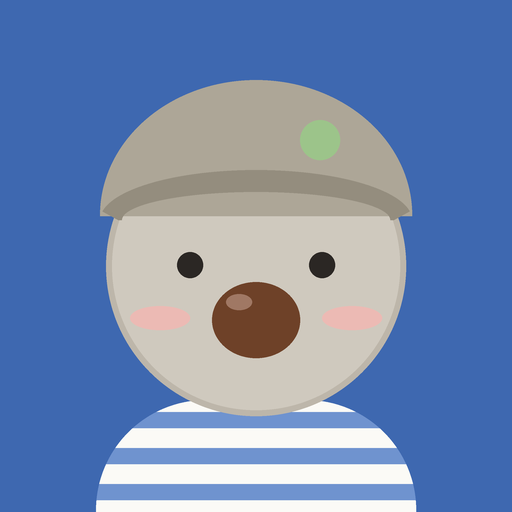
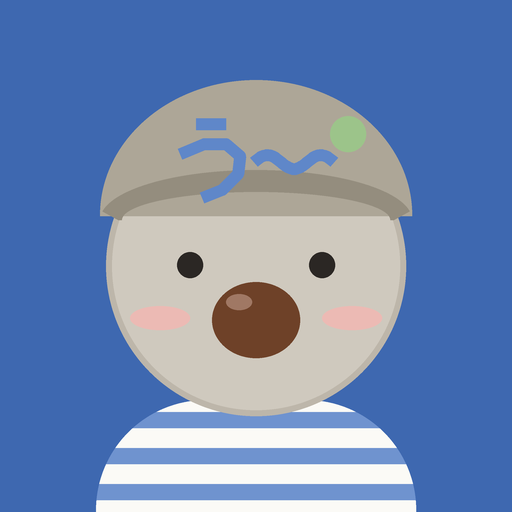
帽子の刺しゅうを「う〜」に、困り顔の眉をハの字に修正

Changed region(s): [[0.3438, 0.2188, 0.7188, 0.4062]]

diff --git a/sw.js b/sw.js
@@ -1,6 +1,4 @@
-// アプリの画面をオフラインでも開けるようにし、在庫の通知を表示する。
-// 画面のファイルを変えたら VERSION を上げると、スマホ側も新しい版に入れ替わる。
-const VERSION = "v5";
+// 繧｢繝励Μ縺ｮ逕ｻ髱｢繧偵が繝輔Λ繧､繝ｳ縺ｧ繧る幕縺代ｋ繧医≧縺ｫ縺励∝惠蠎ｫ縺ｮ騾夂衍繧定｡ｨ遉ｺ縺吶ｋ縲・// 逕ｻ髱｢縺ｮ繝輔ぃ繧､繝ｫ繧貞､峨∴縺溘ｉ VERSION 繧剃ｸ翫￡繧九→縲√せ繝槭・蛛ｴ繧よ眠縺励＞迚医↓蜈･繧梧崛繧上ｋ縲・const VERSION = "v6";
 const CACHE = `stock-${VERSION}`;
 const SHELL = [
   "./",
@@ -23,8 +21,7 @@ self.addEventListener("activate", (e) => {
   );
 });
 
-// 自分のサイトのファイルは「まずネット、だめならキャッシュ」。在庫データ(Supabase)は触らない。
-self.addEventListener("fetch", (e) => {
+// 閾ｪ蛻・・繧ｵ繧､繝医・繝輔ぃ繧､繝ｫ縺ｯ縲後∪縺壹ロ繝・ヨ縲√□繧√↑繧峨く繝｣繝・す繝･縲阪ょ惠蠎ｫ繝・・繧ｿ(Supabase)縺ｯ隗ｦ繧峨↑縺・・self.addEventListener("fetch", (e) => {
   const url = new URL(e.request.url);
   if (e.request.method !== "GET" || url.origin !== self.location.origin) return;
   e.respondWith(
@@ -42,8 +39,8 @@ self.addEventListener("push", (e) => {
   let data = {};
   try { data = e.data ? e.data.json() : {}; } catch { data = { body: e.data && e.data.text() }; }
   e.waitUntil(
-    self.registration.showNotification(data.title || "DEBUとCHIKAのストック帳", {
-      body: data.body || "買うものが増えました",
+    self.registration.showNotification(data.title || "DEBU縺ｨCHIKA縺ｮ繧ｹ繝医ャ繧ｯ蟶ｳ", {
+      body: data.body || "雋ｷ縺・ｂ縺ｮ縺悟｢励∴縺ｾ縺励◆",
       icon: "icons/icon-192.png",
       badge: "icons/icon-192.png",
       tag: data.tag,

diff --git a/index.html b/index.html
@@ -190,7 +190,12 @@ input,select{font:inherit;font-size:16px;color:var(--ink);background:var(--bg);b
       <circle cx="60" cy="50" r="36" fill="none" stroke="#BDB6AA" stroke-width="3" stroke-dasharray="1 4" stroke-linecap="round"/>
       <path d="M24 44Q26 10 60 10Q94 10 96 44Q60 32 24 44Z" fill="url(#p-knit)"/>
       <path d="M24 44Q60 32 96 44" stroke="#948D7E" stroke-width="5" fill="none" stroke-linecap="round"/>
-      <path d="M38 24q6-6 12 0t12 0" stroke="#5F87C9" stroke-width="2.4" fill="none" stroke-linecap="round"/>
+      <!-- 帽子の刺しゅう「う〜」 -->
+      <g stroke="#5F87C9" stroke-width="2.4" fill="none" stroke-linecap="round" stroke-linejoin="round">
+        <path d="M42 17.5h7"/>
+        <path d="M38 24.5q7-3.5 11.5-1.5q4 2.5 0.5 8q-2.5 3.5-7 5"/>
+        <path d="M56 26q3.5-4 7 0t7 0t7 0"/>
+      </g>
       <circle cx="80" cy="22" r="4" fill="#9CC48A"/>
       <ellipse cx="40" cy="64" rx="6" ry="3.5" fill="#E9A0A0" opacity=".45"/>
       <ellipse cx="80" cy="64" rx="6" ry="3.5" fill="#E9A0A0" opacity=".45"/>
@@ -208,7 +213,9 @@ input,select{font:inherit;font-size:16px;color:var(--ink);background:var(--bg);b
     <symbol id="m-worried" viewBox="0 0 120 140">
       <use href="#m-base"/>
       <circle cx="45" cy="54" r="2.8" fill="#2B2724"/><circle cx="75" cy="54" r="2.8" fill="#2B2724"/>
-      <path d="M39 47l10 2.5M81 47l-10 2.5" stroke="#2B2724" stroke-width="2" stroke-linecap="round"/>
+      <!-- 困り眉（内側が上がるハの字）と、波線の口 -->
+      <path d="M38 49.5q5-1 10-4.5M82 49.5q-5-1-10-4.5" stroke="#2B2724" stroke-width="2" fill="none" stroke-linecap="round"/>
+      <path d="M53 76q2.3-2 4.6 0t4.6 0t4.6 0" stroke="#2B2724" stroke-width="1.8" fill="none" stroke-linecap="round"/>
       <path d="M100 30q-6 9 0 13q6-4 0-13Z" fill="#8DB9EA"/>
     </symbol>
   </defs>

diff --git a/tools/setup_assets.py b/tools/setup_assets.py
@@ -20,6 +20,7 @@ NOSE = (110, 65, 40)
 INK = (43, 39, 36)
 CHEEK = (236, 186, 180)
 LEAF = (156, 196, 138)
+STITCH = (95, 135, 201)
 
 
 def draw_icon(size: int, maskable: bool) -> Image.Image:
@@ -53,7 +54,14 @@ def draw_icon(size: int, maskable: bool) -> Image.Image:
     d.chord(box(100, 60, 412, 330), start=180, end=360, fill=KNIT)
     d.rectangle(box(100, 190, 412, 196), fill=KNIT)
     d.arc(box(100, 150, 412, 250), start=190, end=350, fill=KNIT_DARK, width=int(22 * k * scale))
-    d.ellipse(box(300, 100, 340, 140), fill=LEAF)
+    d.ellipse(box(330, 96, 366, 132), fill=LEAF)
+    # 帽子の刺しゅう「う〜」
+    w = int(12 * k * scale)
+    d.line([P(196, 104), P(226, 104)], fill=STITCH, width=w)
+    d.line([P(180, 134), P(204, 124), P(226, 124), P(240, 136), P(238, 154), P(222, 170), P(202, 178)], fill=STITCH, width=w, joint="curve")
+    import math
+    wave = [P(254 + t, 142 - 7 * math.sin(t / 80 * 2 * math.pi * 1.5)) for t in range(0, 81, 2)]
+    d.line(wave, fill=STITCH, width=w, joint="curve")
     # 目
     for x in (190, 322):
         d.ellipse(box(x - 13, 232, x + 13, 258), fill=INK)
